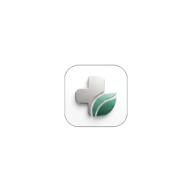
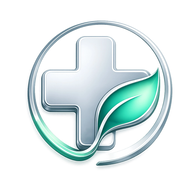
feat(bundles): batch-2 product shots + new PWA brand mark
Add 10 curated bundle images (imunita jeseň/zima through večerná regenerácia),
wire catalog/Woo assign scripts, create missing balicek products, and ship the
new GrowMedica cross+leaf app icons across favicon/PWA assets.

Changed region(s): [[0.125, 0.0938, 0.9062, 0.875]]

diff --git a/storefront/src/lib/bundles/catalog.ts b/storefront/src/lib/bundles/catalog.ts
@@ -208,9 +208,10 @@ export function isHighlightedBundle(slug: string): boolean {
 
 /**
  * Curated product-shot assets in `/public/images/balicky/{slug}.webp`.
- * Keep in sync with files on disk and with top-15 Woo bundles.
+ * Keep in sync with files on disk and assign-bundle-images.mjs.
  */
 export const BUNDLE_IMAGE_SLUGS: ReadonlySet<string> = new Set([
+  // batch 1
   'imunitny-stit-basic',
   'imunitny-stit-plus',
   'pokojny-vecer',
@@ -226,6 +227,17 @@ export const BUNDLE_IMAGE_SLUGS: ReadonlySet<string> = new Set([
   'denny-zaklad',
   'focus-mozog',
   'growmedica-komplet',
+  // batch 2
+  'imunita-jesen-zima',
+  'rodinna-imunita',
+  'imunita-energia',
+  'office-relax',
+  'spanok-krasa',
+  'vytrvalost',
+  'bezecky-balicek',
+  'crossfit-power',
+  'ranny-energizer',
+  'vecerna-regeneracia',
 ])
 
 /** Static storefront image path for a bundle (webp), or null if none shipped. */

diff --git a/storefront/src/lib/brand.ts b/storefront/src/lib/brand.ts
@@ -91,6 +91,10 @@ export const BRAND_ASSETS = [
   '/logo.svg',
   '/logo-icon.svg',
   '/logo-dark.svg',
+  '/logo-mark.png',
+  '/logo-mark.webp',
+  '/android-chrome-512x512.png',
+  '/apple-touch-icon.png',
   '/manifest.webmanifest',
 ] as const
 

diff --git a/storefront/tests/integrity/bundles.spec.ts b/storefront/tests/integrity/bundles.spec.ts
@@ -79,7 +79,7 @@ test.describe('Health bundle catalog', () => {
   })
 
   test('11. curated bundle shots exist for top-15 slugs', () => {
-    expect(BUNDLE_IMAGE_SLUGS.size).toBe(15)
+    expect(BUNDLE_IMAGE_SLUGS.size).toBe(25)
     for (const slug of BUNDLE_IMAGE_SLUGS) {
       const webp = path.join(process.cwd(), 'public/images/balicky', `${slug}.webp`)
       const jpg = path.join(process.cwd(), 'public/images/balicky', `${slug}.jpg`)